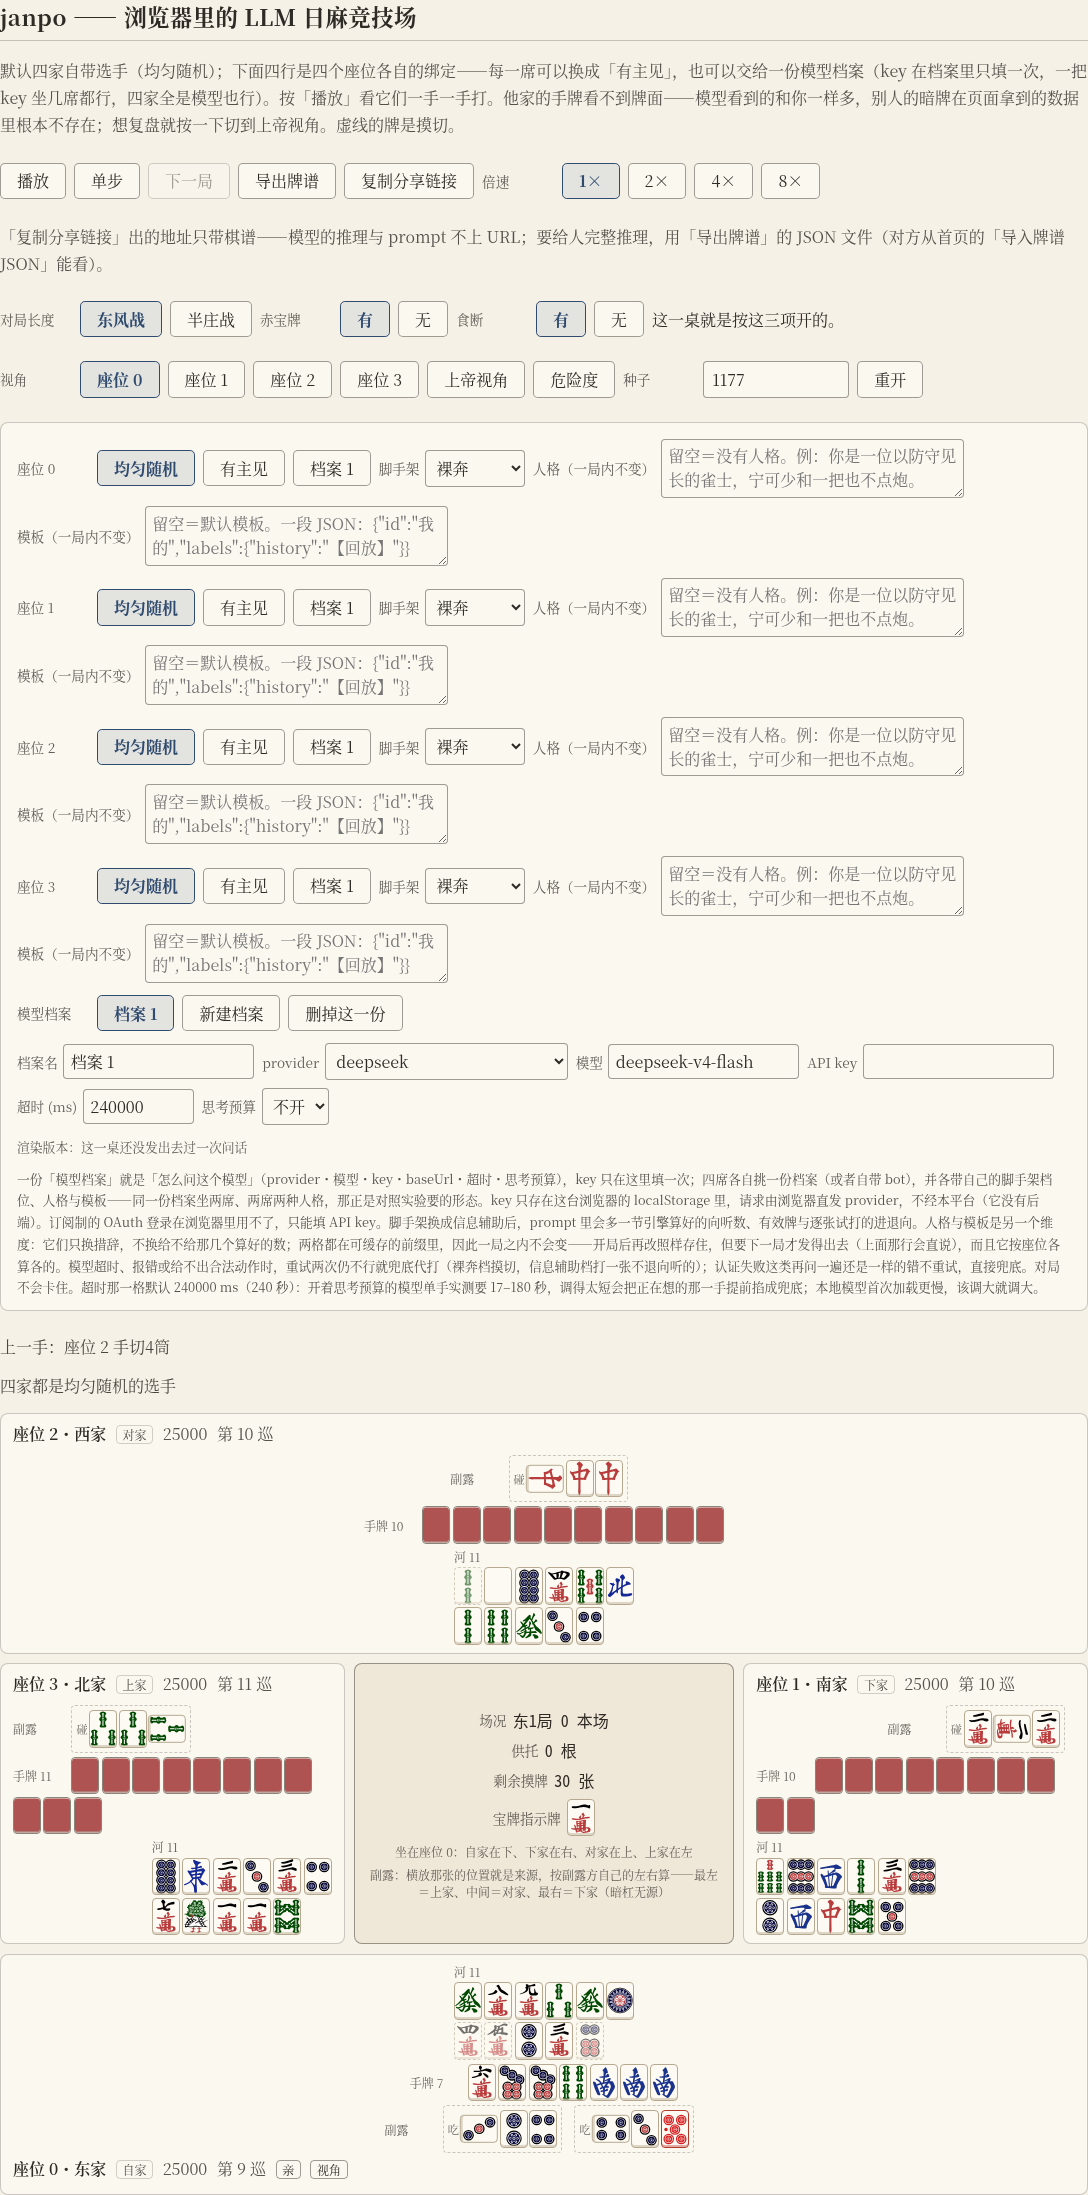
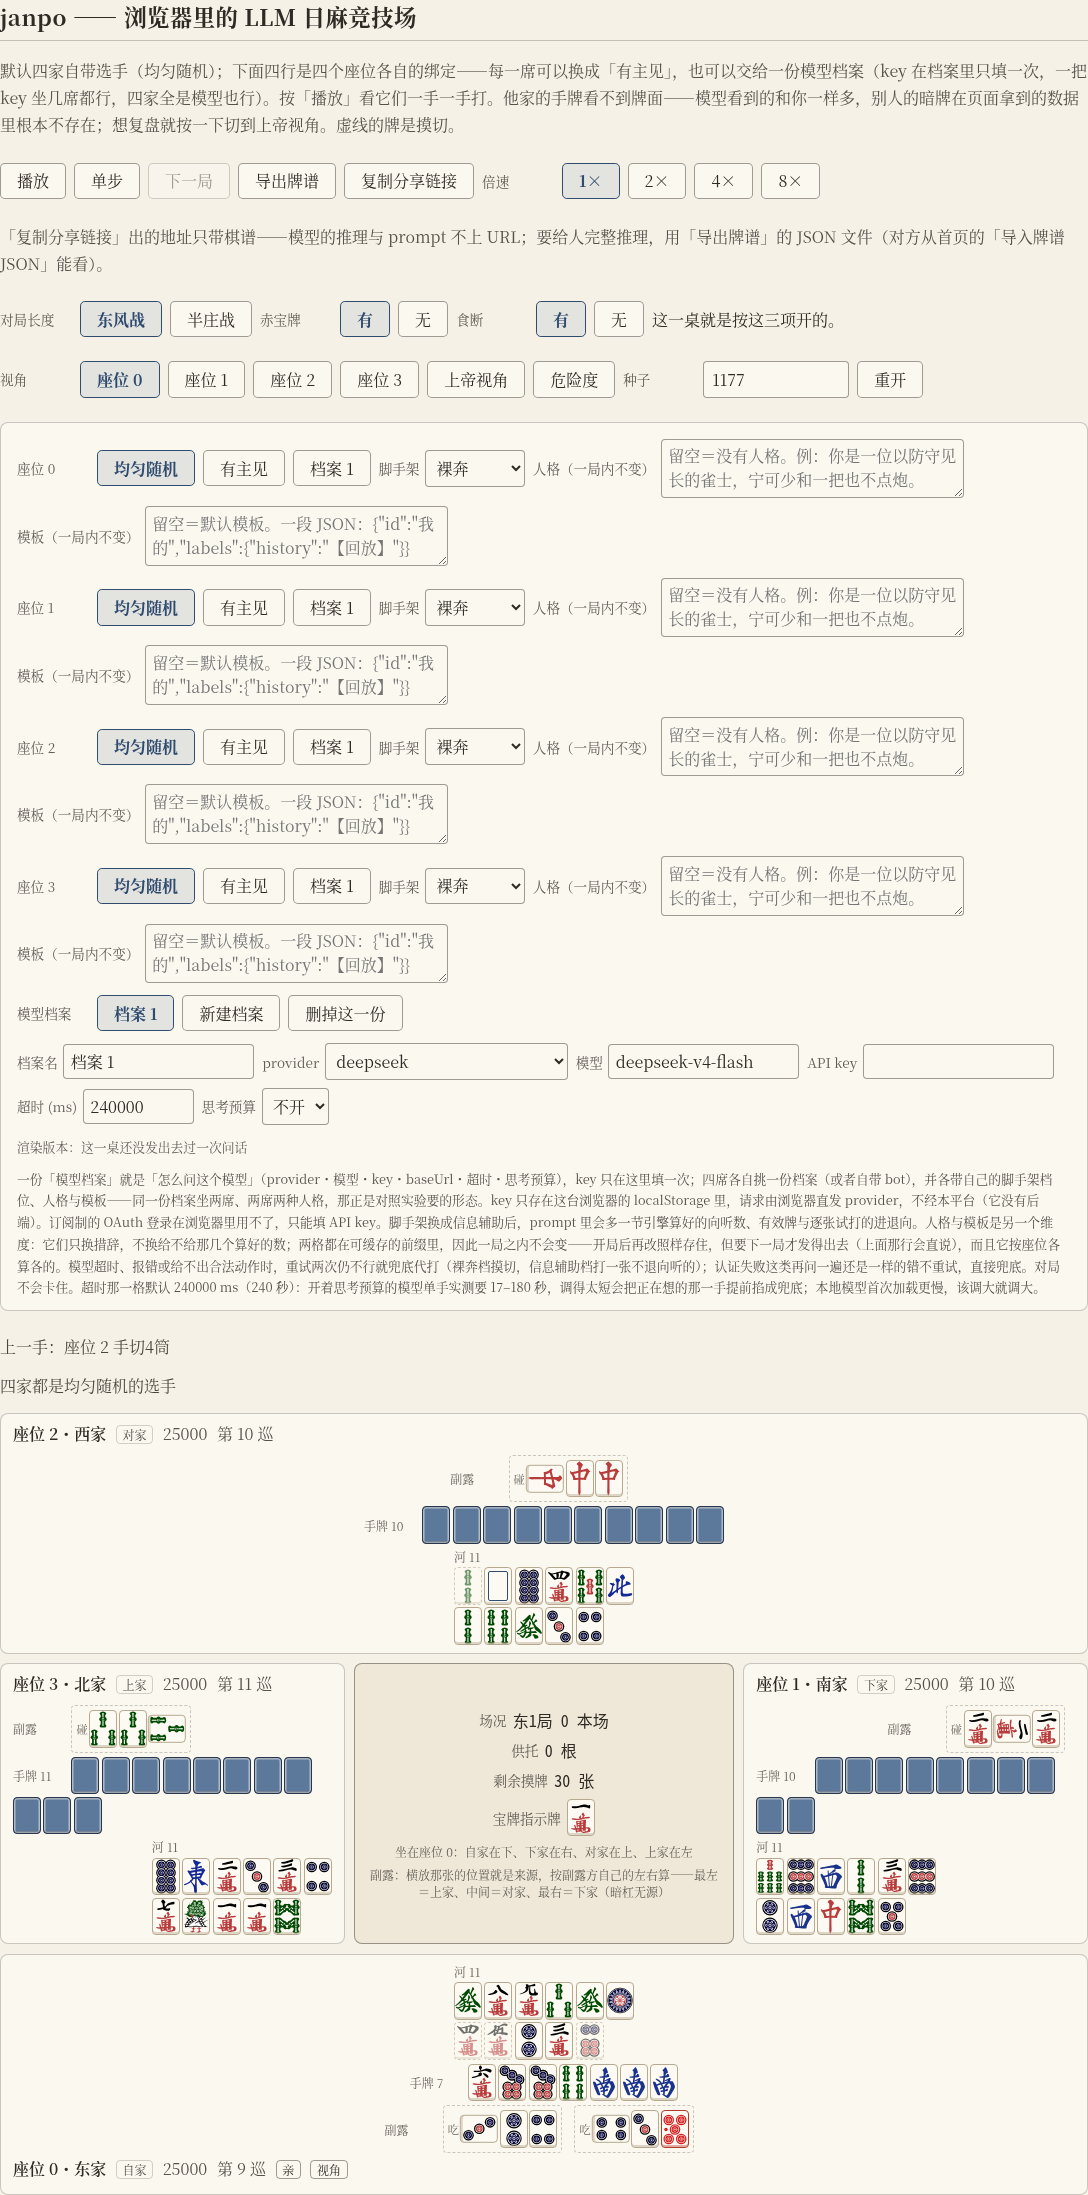
style(web): 主人终审的两笔——白板靛青细框（80-5）、牌背调深靛青（80-6）

Changed region(s): [[0.6875, 0.7745, 0.9688, 0.8364], [0.0, 0.7745, 0.2812, 0.8364], [0.375, 0.6815, 0.6875, 0.7125]]

diff --git a/web/src/styles.css b/web/src/styles.css
@@ -617,15 +617,34 @@ input[type="range"] {
 /* 牌背：他家的暗牌，用上游的 `Back.svg` 整张铺满。
    「背」字与牌面字一样藏着（`.tile` 的 color: transparent），但**牌本身必须看得见**：
    边框是实色（不吃 currentcolor，票 32），背景图不许是 none——两样闸门都读。
-   上游的背是高饱和的橙红，在米白纸底上比谁都响，而朱红这个色相是留给赤牌与立直的——
-   按票面「要调色走 CSS」把它压成旧书封皮那种旧红（静态 filter，不是动效）。 */
+   上游的背是高饱和的橙红，而朱红这个色相是留给赤牌与立直的——主人终审时裁（80-6）：
+   压成**深靛青**，整页只有纸·墨·朱·靛四个色相。做法是 luminosity 混合：
+   明度取 Back.svg 的（保留它的浮雕感），色相取底下的靛青实色；细纸色描边一圈提厚度。 */
 .tile.back {
   border-style: solid;
-  border-color: #8a7f6a;
-  background-color: var(--paper-shade);
+  border-color: #26374f;
+  background-color: var(--indigo);
   background-image: url("./tiles/Back.svg");
   background-size: 100% 100%;
-  filter: saturate(0.45) brightness(1.04);
+  background-blend-mode: luminosity;
+  box-shadow:
+    inset 0 0 0 1.5px color-mix(in srgb, var(--paper) 55%, transparent),
+    inset 0 -2px 0 rgb(0 0 0 / 0.25);
+}
+
+/* 白板（5z）：真牌就是全白，但 26px 下会读成「掉了一张图」——主人终审时裁（80-5）：
+   照雀魂的惯例给它印一圈靛青细框。只动这一张，别的牌面仍由 SVG 说话。 */
+.tile[data-pai="5z"] {
+  position: relative;
+}
+
+.tile[data-pai="5z"]::after {
+  content: "";
+  position: absolute;
+  inset: 3px;
+  border: 1.5px solid var(--indigo);
+  border-radius: 2px;
+  pointer-events: none;
 }
 
 /* 被鸣的那张：**横放**（票 38）。牌谱上就是这个画法——一组里横着的那张是从别人那儿来的
